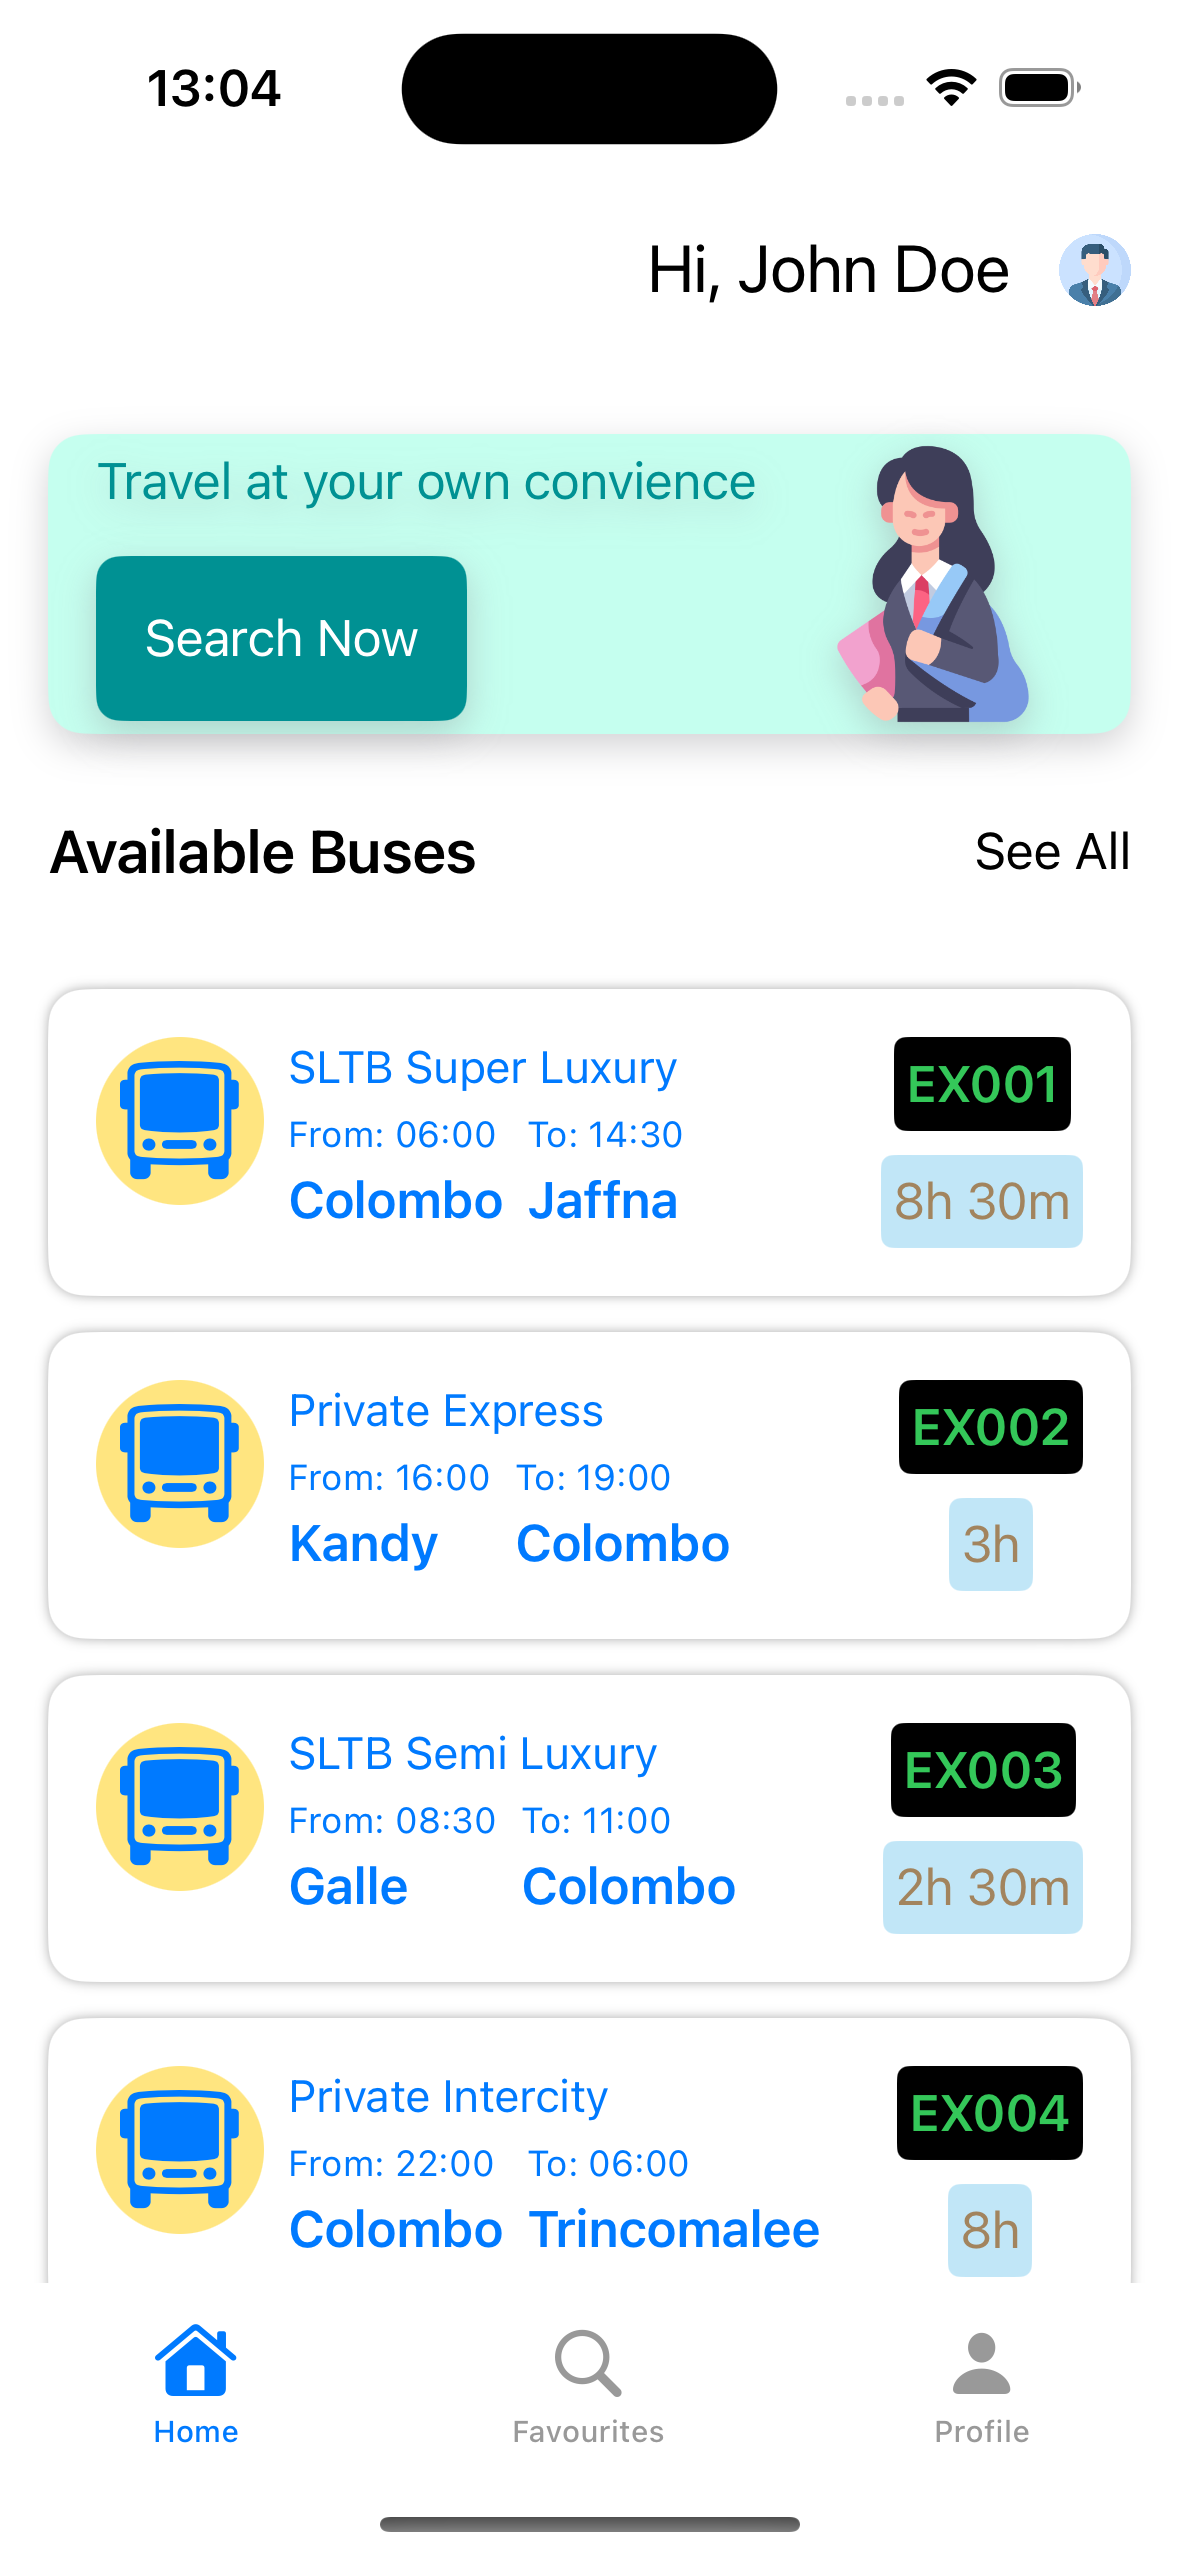
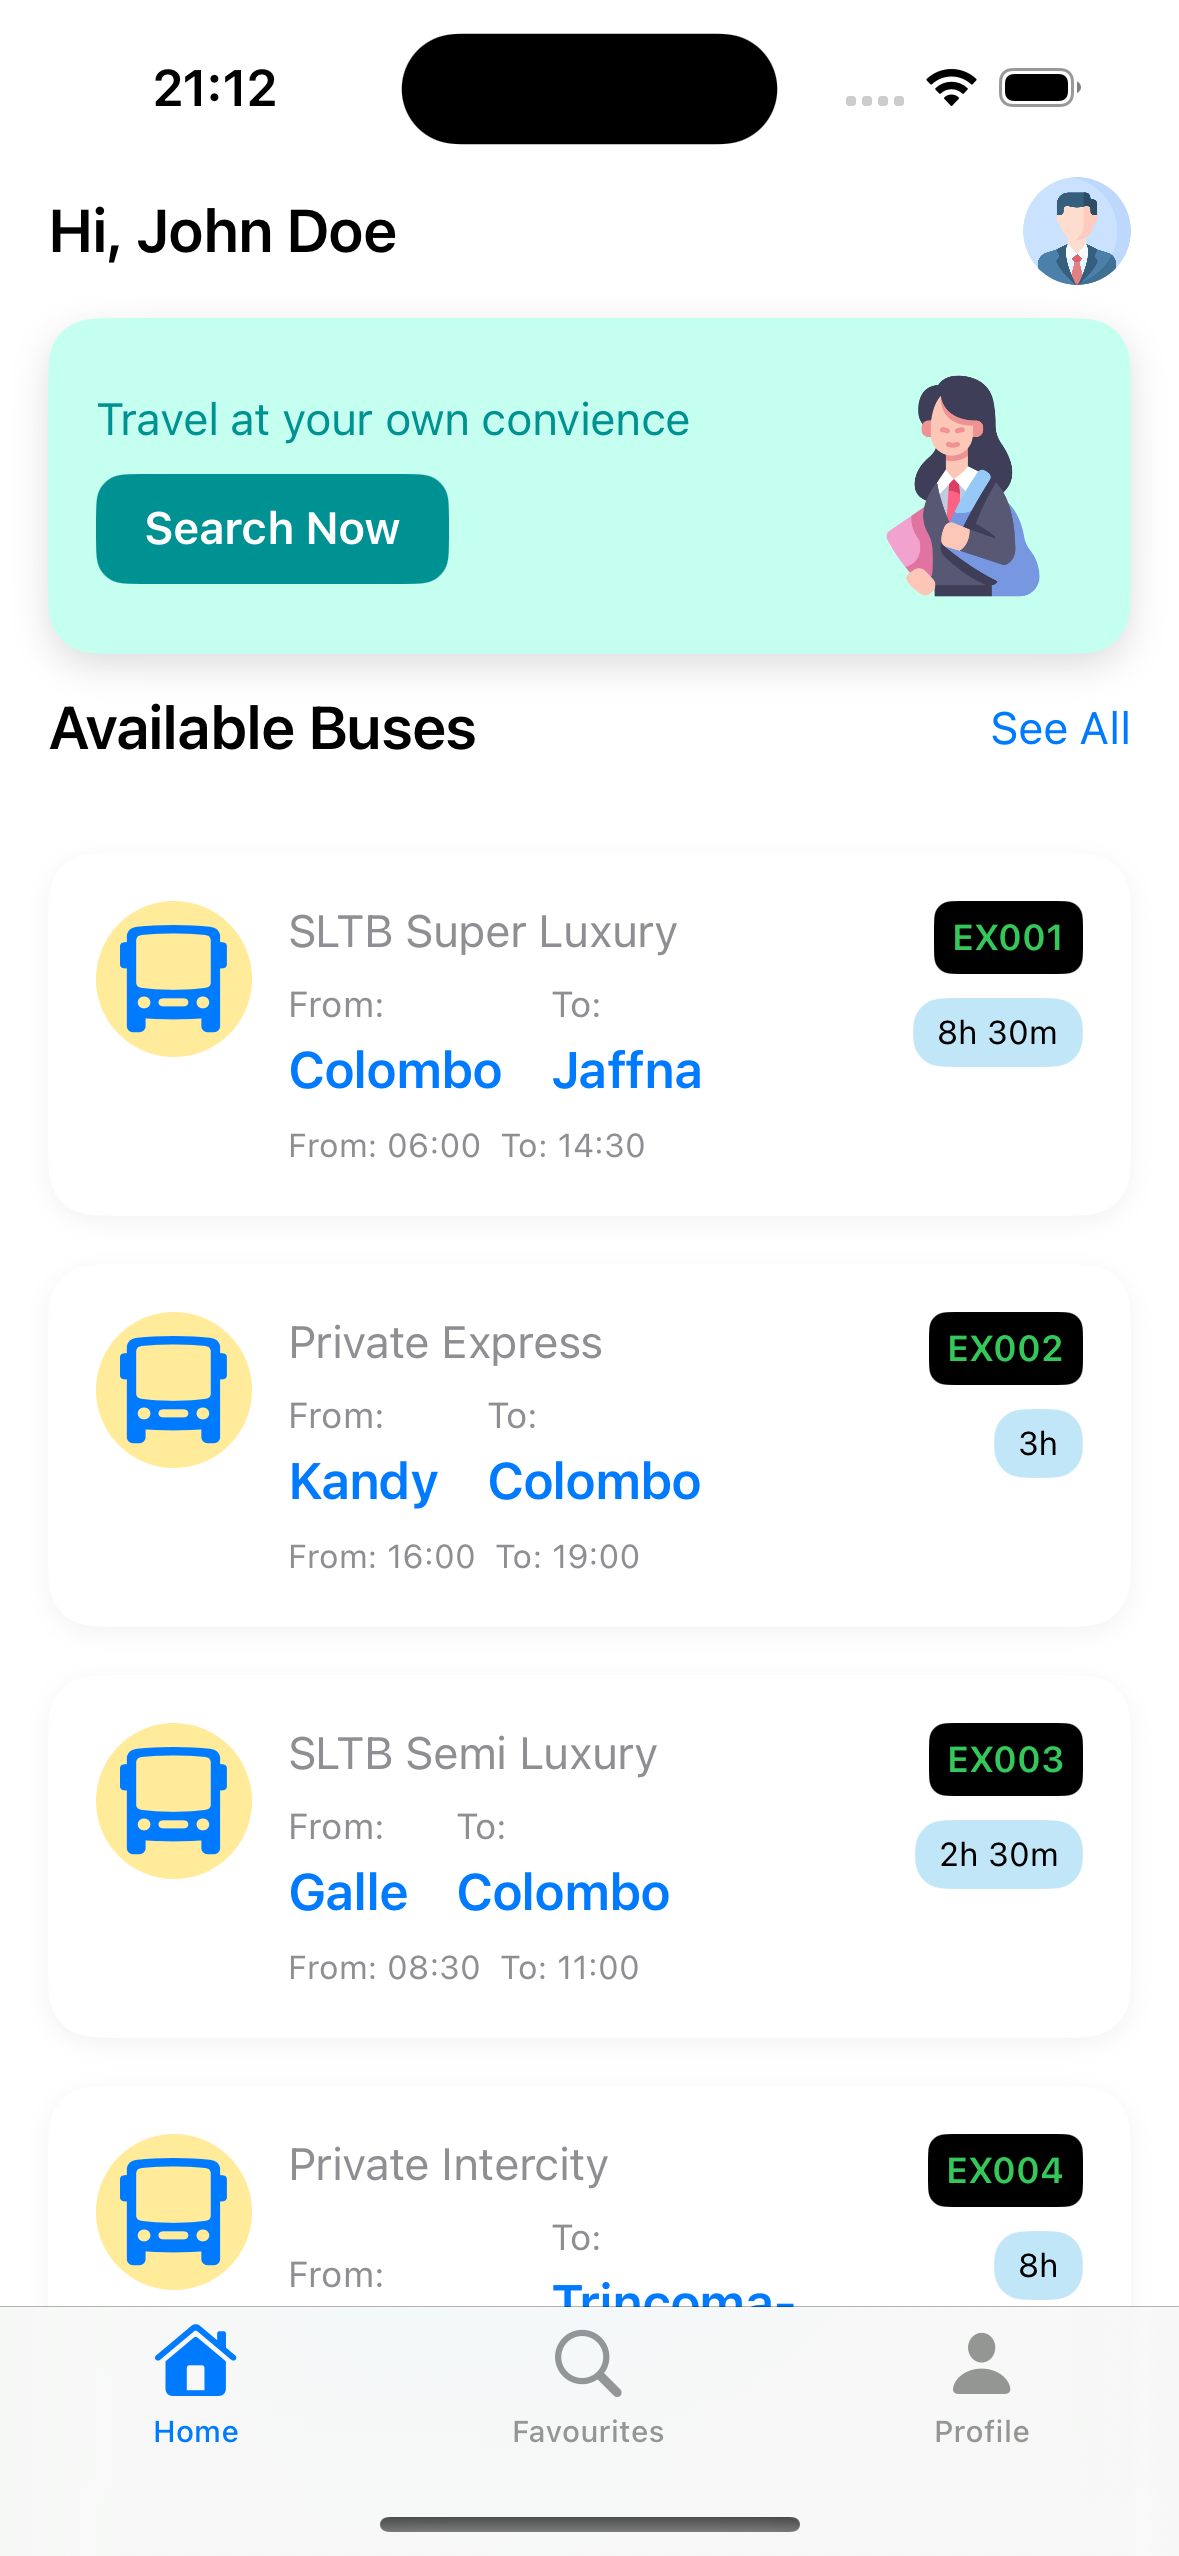
updated HomeView UI

diff --git a/LankaBusRideSwiftUI/Home/Views/HomeView.swift b/LankaBusRideSwiftUI/Home/Views/HomeView.swift
@@ -11,74 +11,92 @@ struct HomeView: View {
     @StateObject private var viewModel = HomeViewModel()
     var body: some View {
         NavigationView {
-            VStack(alignment: .leading) {
+            VStack(alignment: .leading, spacing: 12) {
+                // Top Greeting
                 HStack {
-                    Spacer()
-                    if let user = viewModel.user {
-                        Text("Hi, \(user.name)")
-                            .font(.title2)
+                    VStack(alignment: .leading) {
+                        if let user = viewModel.user {
+                            Text("Hi, \(user.name)")
+                                .font(.title3.bold())
+                        }
                     }
+                    Spacer()
                     Image("profile")
                         .resizable()
-                        .frame(width: 24, height: 24)
-                        .padding(.leading, 8)
-                }
-                .padding()
-                
-                RoundedRectangle(cornerRadius: 12)
-                    .fill(Color("LightGreen"))
-                    .frame(height: 100)
-                    .overlay(
-                        HStack {
-                            VStack(alignment: .leading) {
-                                Text("Travel at your own convience")
-                                    .foregroundColor(Color("PrimaryGreen"))
-                                Button(action: {}) {
-                                    Text("Search Now")
-                                        .foregroundColor(.white)
-                                        .padding()
-                                        .background(Color("PrimaryGreen"))
-                                        .cornerRadius(8)
-                                }
-                            }
-                            Spacer()
-                            Image("travel_girl")
-                                .resizable()
-                                .frame(width: 100, height: 100)
-                        }
-                            .padding()
-                    )
-                    .padding(.all, 16)
-                    .shadow(color: .gray.opacity(0.4), radius: 6, x: 0, y: 4)
-                
-                HStack {
-                    Text("Available Buses")
-                        .font(.title3)
-                        .bold()
-                    Spacer()
-                    NavigationLink("See All", destination: Text("All Buses"))
-                        .foregroundColor(.black)
+                        .frame(width: 36, height: 36)
+                        .clipShape(Circle())
                 }
                 .padding(.horizontal)
-                
+
+                // Promo Banner
+                ZStack {
+                    RoundedRectangle(cornerRadius: 16)
+                        .fill(Color("LightGreen"))
+                        .shadow(color: .gray.opacity(0.3), radius: 6, x: 0, y: 4)
+
+                    HStack {
+                        VStack(alignment: .leading, spacing: 8) {
+                            Text("Travel at your own convience")
+                                .foregroundColor(Color("PrimaryGreen"))
+                                .font(.subheadline)
+                            
+                            Button(action: {}) {
+                                Text("Search Now")
+                                    .font(.subheadline.bold())
+                                    .padding(.horizontal, 16)
+                                    .padding(.vertical, 8)
+                                    .background(Color("PrimaryGreen"))
+                                    .foregroundColor(.white)
+                                    .cornerRadius(10)
+                            }
+                        }
+
+                        Spacer()
+
+                        Image("travel_girl")
+                            .resizable()
+                            .scaledToFit()
+                            .frame(height: 80)
+                    }
+                    .padding()
+                }
+                .frame(height: 110)
+                .padding(.horizontal)
+
+                // Header
+                HStack {
+                    Text("Available Buses")
+                        .font(.title3.bold())
+                    Spacer()
+                    NavigationLink(destination: Text("All Buses")) {
+                        Text("See All")
+                            .font(.subheadline)
+                            .foregroundColor(.blue)
+                    }
+                }
+                .padding(.horizontal)
+
+                // Bus Cards
                 ScrollView {
-                    VStack(spacing: 12) {
+                    VStack(spacing: 16) {
                         ForEach(viewModel.routes) { bus in
                             NavigationLink(destination: DetailView(busID: bus.id)) {
                                 AvailableBusRow(bus: bus)
                             }
+                            .buttonStyle(PlainButtonStyle())
                         }
                     }
                     .padding()
                 }
-                
-                Spacer()
             }
-        }.onAppear {
-            viewModel.loadData()
+            .navigationBarHidden(true)
+            .onAppear {
+                viewModel.loadData()
+            }
         }
     }
 }
+
 
 #Preview {
     HomeView()

diff --git a/LankaBusRideSwiftUI/Home/Views/CustomViews/AvailableBusRow.swift b/LankaBusRideSwiftUI/Home/Views/CustomViews/AvailableBusRow.swift
@@ -10,53 +10,69 @@ import SwiftUI
 struct AvailableBusRow: View {
     let bus: BusRoute
     var body: some View {
-        HStack(alignment: .top) {
-            Image(systemName: "bus")
+        HStack(alignment: .top, spacing: 12) {
+            Image(systemName: "bus.fill")
                 .resizable()
-                .frame(width: 40, height: 40)
+                .frame(width: 36, height: 36)
+                .foregroundColor(.blue)
                 .padding(8)
-                .background(Circle().fill(Color.yellow.opacity(0.5)))
-            
-            VStack(alignment: .leading, spacing: 4) {
+                .background(Circle().fill(Color.yellow.opacity(0.4)))
+
+            VStack(alignment: .leading, spacing: 6) {
                 Text(bus.companyName)
                     .font(.subheadline)
-                
-                HStack {
-                    VStack(alignment: .leading) {
-                        Text("From: \(bus.departure)")
+                    .foregroundColor(.gray)
+
+                HStack(spacing: 16) {
+                    VStack(alignment: .leading, spacing: 2) {
+                        Text("From:")
                             .font(.caption)
+                            .foregroundColor(.gray)
                         Text(bus.source)
                             .font(.headline)
+                            .foregroundColor(.blue)
                     }
-                    
-                    VStack(alignment: .leading) {
-                        Text("To: \(bus.arrival)")
+
+                    VStack(alignment: .leading, spacing: 2) {
+                        Text("To:")
                             .font(.caption)
+                            .foregroundColor(.gray)
                         Text(bus.destination)
                             .font(.headline)
+                            .foregroundColor(.blue)
                     }
                 }
+
+                HStack {
+                    Text("From: \(bus.departure)  To: \(bus.arrival)")
+                        .font(.caption2)
+                        .foregroundColor(.gray)
+                }
             }
+
             Spacer()
-            VStack {
+
+            VStack(alignment: .trailing, spacing: 8) {
                 Text(bus.routeNumber)
-                    .bold()
+                    .font(.caption.bold())
                     .foregroundColor(.green)
-                    .padding(4)
+                    .padding(.horizontal, 6)
+                    .padding(.vertical, 4)
                     .background(Color.black)
-                    .cornerRadius(4)
-                
+                    .cornerRadius(6)
+
                 Text(bus.duration)
-                    .foregroundColor(.brown)
-                    .padding(4)
+                    .font(.caption2)
+                    .padding(.horizontal, 8)
+                    .padding(.vertical, 4)
                     .background(Color.cyan.opacity(0.3))
-                    .cornerRadius(4)
+                    .cornerRadius(10)
             }
         }
         .padding()
         .background(Color.white)
-        .cornerRadius(12)
-        .shadow(radius: 2)
+        .cornerRadius(16)
+        .shadow(color: Color.black.opacity(0.05), radius: 4, x: 0, y: 2)
     }
 }
 
